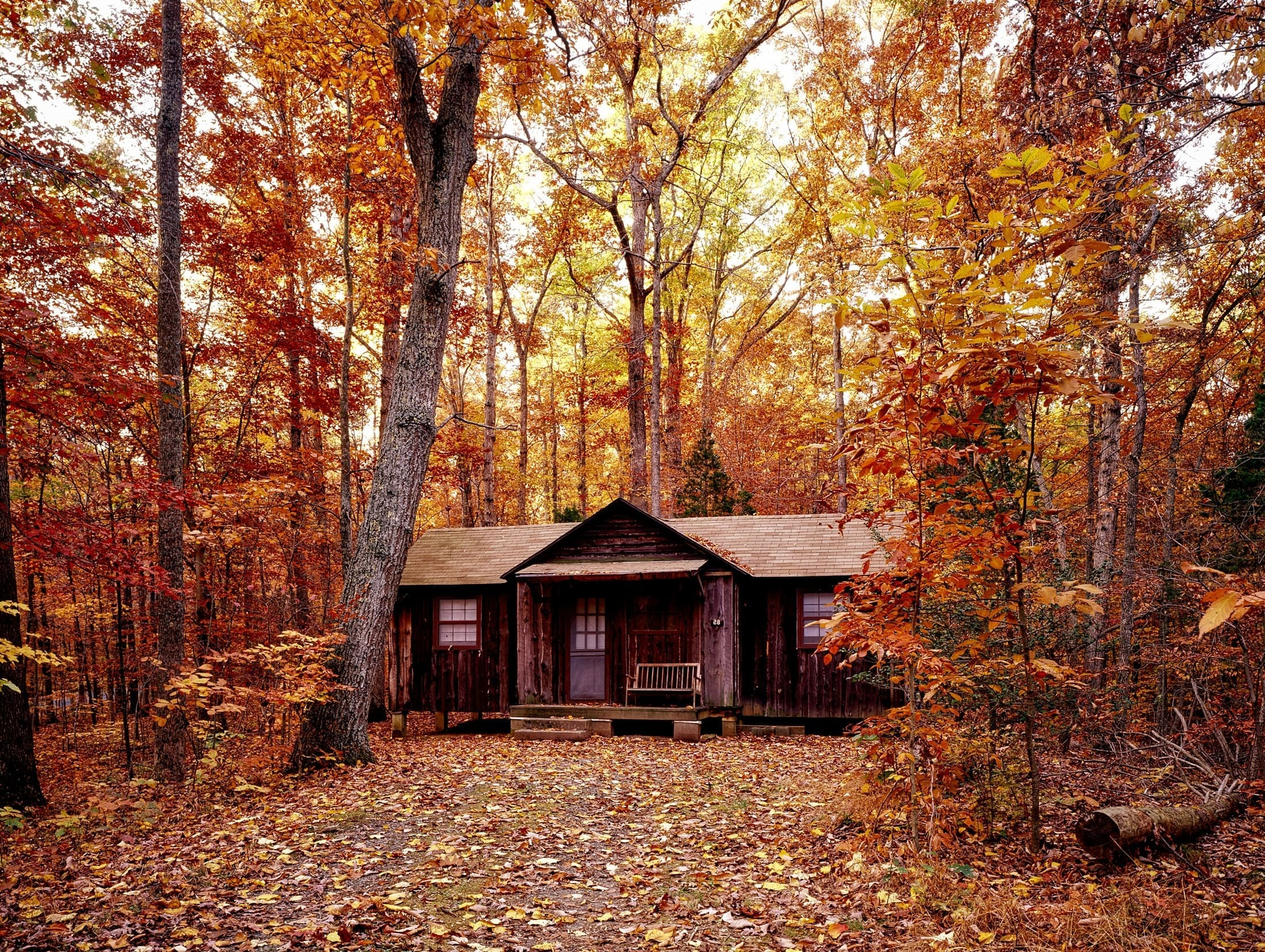
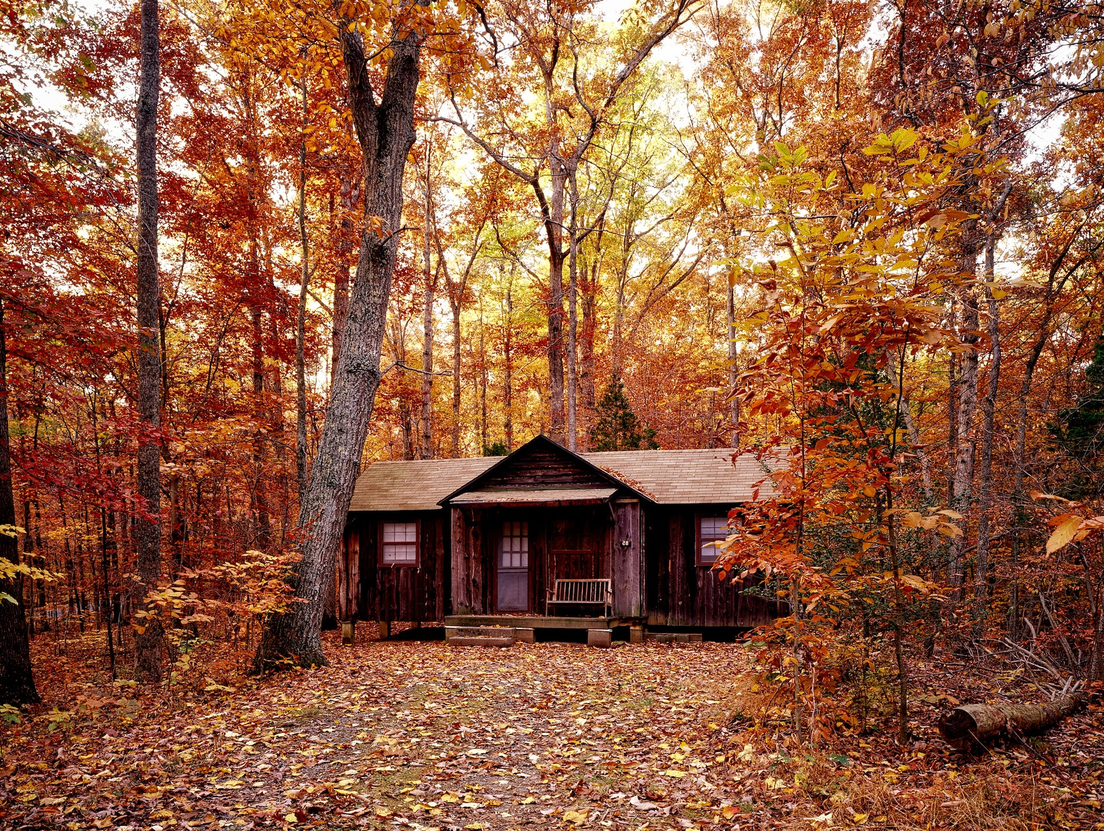
Proyecto Turismo

diff --git a/docs/index.html b/docs/index.html
@@ -1,1 +1,1 @@
-<!doctype html><html lang="es"><head><meta charset="UTF-8"><meta http-equiv="X-UA-Compatible" content="IE=edge"><meta name="viewport" content="width=device-width,initial-scale=1"><link href="https://fonts.googleapis.com/css2?family=Kanit:ital@1&family=Lora:ital@1&display=swap" rel="stylesheet"><script src="https://kit.fontawesome.com/88684a7619.js" crossorigin="anonymous"></script><title>Document</title><script defer="defer" src="main.e689837c3e764ff46ad0.js"></script><link href="estilo.659c984c1b8cc0631ca3.css" rel="stylesheet"></head><body><div class="contenedor-global"><div class="contenedor-logo"><div class="logo-imagen"><img class="logo logo-responsive" src="assets/imagenes/logo-sinfondo.png" alt=""></div><div class="menu"><i class="fa-solid fa-bars" id="btn-menu"></i><nav class="nav"><p class="menu-item"><a class="menu-a" href="#nosotros">Nosotros</a></p><p class="menu-item"><a class="menu-a" href="#instalaciones">Instalaciones</a></p><p class="menu-item"><a class="menu-a" href="#alojamiento">Alojamiento</a></p><p class="menu-item"><a class="menu-a" href="#mapa">Ubicación</a></p><p class="menu-item"><a class="menu-a" href="#contact">Contacto</a></p></nav></div></div><div class="contenedor-imagen"><div id="contenedor-seccion"><div class="seccion-animada"><img class="imagen-presentacion" src="assets/imagenes/fondoTres.jpg" alt=""></div><div class="seccion-animada"><img class="imagen-presentacion" src="assets/imagenes/fondoDos.jpg" alt=""></div><div class="seccion-animada"><img class="imagen-presentacion" src="assets/imagenes/fotojungla.jpg"></div></div></div><div class="contenedor-bienvenida" id="nosotros"><div class="contenedor-texto"><h1 class="bienvenida-titulo">~ <span class="texto-verde">BIENVENIDOS A</span> LAS YUNGAS JUJEÑAS ~</h1></div><div class="contenedor-grid"><div class="bienvenida-img"><img class="bienvenida-img-particular" src="assets/imagenes/fotodos.jpg" alt=""> <img class="bienvenida-img-particular" src="assets/imagenes/fototres.jpg" alt=""></div><div class="bienvenida-texto"><h2 class="bienvenida-texto-h2">Nuestra historia</h2><p class="bienvenida-texto-p">Nuestra historia Lorem ipsum, dolor sit amet consectetur adipisicing elit. Qui minus vel vero sapiente similique adipisci officiis possimus veniam non ad ratione, unde nesciunt, cupiditate ipsam fugit enim veritatis a soluta. Lorem ipsum dolor sit, amet consectetur adipisicing elit. Reprehenderit praesentium natus officia consequatur ea ad illo quo dolor pariatur eveniet placeat, exercitationem veniam saepe debitis odit laboriosam nesciunt facere eaque? Lorem ipsum dolor sit amet consectetur, adipisicing elit. Eaque vitae quidem accusamus possimus perferendis suscipit aut illum! Dignissimos maxime ipsa iusto quos! Quasi voluptates fuga ratione corporis! Illo, earum perferendis.</p><p class="bienvenida-texto-p">Nuestra historia Lorem ipsum, dolor sit amet consectetur adipisicing elit. Qui minus vel vero sapiente similique adipisci officiis possimus veniam non ad ratione, unde nesciunt, cupiditate ipsam fugit enim veritatis a soluta. Lorem ipsum dolor sit, amet consectetur adipisicing elit. Reprehenderit praesentium natus officia consequatur ea ad illo quo dolor pariatur eveniet placeat, exercitationem veniam saepe debitis odit laboriosam nesciunt facere eaque? Lorem ipsum dolor sit amet consectetur, adipisicing elit.</p></div><div class="bienvenida-img-dos"><img class="bienvenida-img-particular-dosa" src="assets/imagenes/fotouno.jpg" alt=""> <img class="bienvenida-img-particular-dosb" src="assets/imagenes/fotocuatro.jpg" alt=""></div></div></div><div class="contenedor-info" id="instalaciones"><div class="titulo-info"><h2 class="titulo-info-h2">Nuestras <span class="texto-verde">Instalaciones</span></h2><p class="titulo-info-p">Contamos con los servicios necesarios para que disfruten durante su estadia:</p></div><div class="instalaciones-info-grid info-grid-uno efecto-java"><img class="grid-img-iguales" src="assets/servicios/plaza.jpg" alt=""><p>Conectividad Wifi gratis en la Plaza principal del pueblo y la señal de telefonía de la empresa Personal.</p></div><div class="instalaciones-info-grid info-grid-dos efecto-java"><img class="grid-img-iguales" src="assets/servicios/plaza.jpg" alt=""><p>Hospedajes y comedores registrados, habilitados que cuentan con servicios básicos e instalaciones sanitarias cómodas.</p></div><div class="instalaciones-info-grid info-grid-tres efecto-java"><img class="grid-img-iguales" src="assets/servicios/plaza.jpg" alt=""><p>Centro de primeros auxilios y destacamento policial.</p></div><div class="instalaciones-info-grid info-grid-cuatro efecto-java"><img class="grid-img-iguales" src="assets/servicios/plaza.jpg" alt=""><p>En existencia un comercio con provisión de combustible y talleres mecánicos de autos y motos.</p></div><div class="info-camping"><div class="camping-texto"><h2 class="camping-texto-h2">Nuestro <span class="texto-verde">camping municipal</span>.</h2></div><div class="camping-parrafo"><p class="camping-parrafo-p">Si queres pasar tu tiempo en un entorno natural, nuestro camping es el <span class="texto-verde">lugar indicado.</span></p><p class="camping-parrafo-p">Contamos con asadores y <span class="texto-verde">instalaciones cómodas</span> para que disfrutes tu estadia.</p><p class="camping-parrafo-p">Atención:SABADOS/DOMINGOS/FERIADOS de 09 a 19hs.</p><p class="camping-parrafo-p">Costo de ingreso: 150$ p/persona.</p></div><div class="camping-grid"><div class="img-camping-uno scala"><figure><img class="img-igual-grid efecto-java" src="assets/camping/camping05.jpg" alt=""></figure></div><div class="img-camping-dos scala"><figure><img class="img-igual-grid efecto-java" src="assets/camping/camping08.jpg" alt=""></figure></div><div class="img-camping-tres scala"><figure><img class="img-igual-grid-dos efecto-java" src="assets/servicios/camping.jpg" alt=""></figure></div><div class="img-camping-cuatro scala"><figure><img class="img-igual-grid-dos efecto-java" src="assets/camping/camping01.jpg" alt=""></figure></div><div class="img-camping-cinco scala"><figure><img class="img-igual-grid-tres efecto-java" src="assets/camping/camping04.jpg" alt=""></figure></div><div class="img-camping-seis scala"><figure><img class="img-igual-grid-tres efecto-java" src="assets/camping/camping06.jpg" alt=""></figure></div><div class="img-camping-siete scala"><figure><img class="img-igual-grid-tres efecto-java" src="assets/camping/campng03.jpg" alt=""></figure></div></div></div></div><div id="alojamiento" class="contenedor-cabañas"><div class="titulo-info"><h2 class="titulo-info-h2-cabañas">Cabañas</h2><p class="titulo-info-p">Si deseas hospedarte contamos con diferentes tipos de alojamiento.</p></div><div class="cabañas-seccion"><div class="cabañas-cont-uno efecto-tres"><img class="cabañas-img-dist" src="assets/cabañas/cabaña6.jpg" alt=""><div class="cabañas-info-uno"><h2 class="titulo-cabaña">Cabaña ARAI</h2><p class="texto-cabañas">Lorem ipsum dolor, sit amet consectetur adipisicing elit. Ratione quam dolore impedit perspiciatis expedita recusandae dolores quas tempore atque, repellendus molestias, ipsam earum. Recusandae sapiente provident saepe ex, repellat dolorem.</p></div></div><div class="cabañas-cont-dos efecto-tres"><img class="cabañas-img-dist-iguales" src="assets/cabañas/cabaña2.jpg" alt=""><div class="cabañas-info-dos"><h2 class="titulo-cabaña">Cabaña ARAI</h2><p class="texto-cabañas">Lorem ipsum dolor, sit amet consectetur adipisicing elit. Ratione quam dolore impedit perspiciatis expedita recusandae dolores quas tempore atque, repellendus molestias, ipsam earum. Recusandae sapiente provident saepe ex, repellat dolorem.</p></div></div><div class="cabañas-cont-tres efecto-tres"><img class="cabañas-img-dist-iguales" src="assets/cabañas/cabaña3.jpg" alt=""><div class="cabañas-info-tres"><h2 class="titulo-cabaña">Cabaña ARAI</h2><p id="contact" class="texto-cabañas">Lorem ipsum dolor, sit amet consectetur adipisicing elit. Ratione quam dolore impedit perspiciatis expedita recusandae dolores quas tempore atque, repellendus molestias, ipsam earum. Recusandae sapiente provident saepe ex, repellat dolorem.</p></div></div></div></div><div id="boton-arriba"><i class="fa-solid fa-arrow-up"></i></div><div class="ubicacion-contenedor" id="mapa"><h2 class="ubicacion-contenedor-h2 loco">¿Donde estamos?</h2><div class="ubicacion-parrafo"><p>El fuerte se encuentra en el extremo oriental de la provincia de Jujuy, a 1430 m.s.n.m entre la Serranía de Santa Bárbara y el Cerro Centinela. Sobre la RP6 a 38 km de Santa Clara, 40 km de Palma Sola, 65km de San Pedro, 65 km de San Pedro y 120 km de San Salvador de Jujuy.</p></div><div class="ubicacion-flex"><img class="mapa-img" src="assets/imagenes/mapa-yungas.png" alt=""><iframe class="mapa-prop" src="https://www.google.com/maps/embed?pb=!1m18!1m12!1m3!1d7274.870213164948!2d-64.41613542326928!3d-24.261528606082507!2m3!1f0!2f0!3f0!3m2!1i1024!2i768!4f13.1!3m3!1m2!1s0x941a79092a43dfed%3A0x7488cbf462d0a4c1!2sEl%20Fuerte%2C%20Jujuy!5e0!3m2!1ses-419!2sar!4v1661280674037!5m2!1ses-419!2sar"></iframe></div></div><footer class="contenedor-footer"><div class="footer-fila"><div class="img-texto"><img class="img-footer" src="assets/imagenes/logo-sinfondo.png" alt=""><p class="img-texto-footer">Vení a conocer este paraíso en las Yungas Jujeñas 💚</p></div><div class="redes" id="contact"><p class="redes-texto">Seguinos en nuestras redes o comunicate con nosotros para estar informado de las ultimas novedades.</p><div class="iconos"><a class="iconos-a" target="_blank" href="https://www.facebook.com/turis.elfuerte"><i class="fab fa-facebook iconos-i"></i></a> <a class="iconos-a" target="_blank" href="https://www.instagram.com/ecoturelfuerte/"><i class="fab fa-instagram iconos-i"></i></a> <a class="iconos-a" target="_blank" href=""><i class="fab fa-whatsapp iconos-i"></i></a> <a class="iconos-a" target="_blank" href=""><i class="fas fa-envelope iconos-i"></i></a></div></div></div><div class="linea"></div><div class="copy-footer"><p class="copy-texto"><i class="fas fa-copyright copy-icono"></i>Elfuerte.com 2022</p></div></footer></div></body></html>
+<!doctype html><html lang="es"><head><meta charset="UTF-8"><meta http-equiv="X-UA-Compatible" content="IE=edge"><meta name="viewport" content="width=device-width,initial-scale=1"><link href="https://fonts.googleapis.com/css2?family=Kanit:ital@1&family=Lora:ital@1&display=swap" rel="stylesheet"><script src="https://kit.fontawesome.com/88684a7619.js" crossorigin="anonymous"></script><title>Document</title><script defer="defer" src="main.e689837c3e764ff46ad0.js"></script><link href="estilo.825ded4daf479a329f2d.css" rel="stylesheet"></head><body><div class="contenedor-global"><div class="contenedor-logo"><div class="logo-imagen"><img class="logo logo-responsive" src="assets/imagenes/logo-sinfondo.png" alt=""></div><div class="menu"><i class="fa-solid fa-bars" id="btn-menu"></i><nav class="nav"><p class="menu-item"><a class="menu-a" href="#nosotros">Nosotros</a></p><p class="menu-item"><a class="menu-a" href="#instalaciones">Instalaciones</a></p><p class="menu-item"><a class="menu-a" href="#alojamiento">Alojamiento</a></p><p class="menu-item"><a class="menu-a" href="#mapa">Ubicación</a></p><p class="menu-item"><a class="menu-a" href="#contact">Contacto</a></p></nav></div></div><div class="contenedor-imagen"><div id="contenedor-seccion"><div class="seccion-animada"><img class="imagen-presentacion" src="assets/imagenes/fotojungla.jpg" alt=""></div><div class="seccion-animada"><img class="imagen-presentacion" src="assets/imagenes/fotojunglados.jpg" alt=""></div><div class="seccion-animada"><img class="imagen-presentacion" src="assets/imagenes/fotojunglatres.jpg"></div></div></div><div class="contenedor-bienvenida" id="nosotros"><div class="contenedor-texto"><h1 class="bienvenida-titulo">~ <span class="texto-verde">BIENVENIDOS A</span> LAS YUNGAS JUJEÑAS ~</h1></div><div class="contenedor-grid"><div class="bienvenida-img"><img class="bienvenida-img-particular" src="assets/imagenes/fotodos.jpg" alt=""> <img class="bienvenida-img-particular" src="assets/imagenes/fototres.jpg" alt=""></div><div class="bienvenida-texto"><h2 class="bienvenida-texto-h2">Nuestra historia</h2><p class="bienvenida-texto-p">Nuestra historia Lorem ipsum, dolor sit amet consectetur adipisicing elit. Qui minus vel vero sapiente similique adipisci officiis possimus veniam non ad ratione, unde nesciunt, cupiditate ipsam fugit enim veritatis a soluta. Lorem ipsum dolor sit, amet consectetur adipisicing elit. Reprehenderit praesentium natus officia consequatur ea ad illo quo dolor pariatur eveniet placeat, exercitationem veniam saepe debitis odit laboriosam nesciunt facere eaque? Lorem ipsum dolor sit amet consectetur, adipisicing elit. Eaque vitae quidem accusamus possimus perferendis suscipit aut illum! Dignissimos maxime ipsa iusto quos! Quasi voluptates fuga ratione corporis! Illo, earum perferendis.</p><p class="bienvenida-texto-p">Nuestra historia Lorem ipsum, dolor sit amet consectetur adipisicing elit. Qui minus vel vero sapiente similique adipisci officiis possimus veniam non ad ratione, unde nesciunt, cupiditate ipsam fugit enim veritatis a soluta. Lorem ipsum dolor sit, amet consectetur adipisicing elit. Reprehenderit praesentium natus officia consequatur ea ad illo quo dolor pariatur eveniet placeat, exercitationem veniam saepe debitis odit laboriosam nesciunt facere eaque? Lorem ipsum dolor sit amet consectetur, adipisicing elit.</p></div><div class="bienvenida-img-dos"><img class="bienvenida-img-particular-dosa" src="assets/imagenes/fotouno.jpg" alt=""> <img class="bienvenida-img-particular-dosb" src="assets/imagenes/fotocuatro.jpg" alt=""></div></div></div><div class="contenedor-info" id="instalaciones"><div class="titulo-info"><h2 class="titulo-info-h2">Nuestras <span class="texto-verde">Instalaciones</span></h2><p class="titulo-info-p">Contamos con los servicios necesarios para que disfruten durante su estadia:</p></div><div class="instalaciones-info-grid info-grid-uno efecto-java"><img class="grid-img-iguales" src="assets/servicios/plaza.jpg" alt=""><p>Conectividad Wifi gratis en la Plaza principal del pueblo y la señal de telefonía de la empresa Personal.</p></div><div class="instalaciones-info-grid info-grid-dos efecto-java"><img class="grid-img-iguales" src="assets/servicios/plaza.jpg" alt=""><p>Hospedajes y comedores registrados, habilitados que cuentan con servicios básicos e instalaciones sanitarias cómodas.</p></div><div class="instalaciones-info-grid info-grid-tres efecto-java"><img class="grid-img-iguales" src="assets/servicios/plaza.jpg" alt=""><p>Centro de primeros auxilios y destacamento policial.</p></div><div class="instalaciones-info-grid info-grid-cuatro efecto-java"><img class="grid-img-iguales" src="assets/servicios/plaza.jpg" alt=""><p>En existencia un comercio con provisión de combustible y talleres mecánicos de autos y motos.</p></div><div class="info-camping"><div class="camping-texto"><h2 class="camping-texto-h2">Nuestro <span class="texto-verde">camping municipal</span>.</h2></div><div class="camping-parrafo"><p class="camping-parrafo-p">Si queres pasar tu tiempo en un entorno natural, nuestro camping es el <span class="texto-verde">lugar indicado.</span></p><p class="camping-parrafo-p">Contamos con asadores y <span class="texto-verde">instalaciones cómodas</span> para que disfrutes tu estadia.</p><p class="camping-parrafo-p">Atención:SABADOS/DOMINGOS/FERIADOS de 09 a 19hs.</p><p class="camping-parrafo-p">Costo de ingreso: 150$ p/persona.</p></div><div class="camping-grid"><div class="img-camping-uno scala"><figure><img class="img-igual-grid efecto-java" src="assets/camping/camping05.jpg" alt=""></figure></div><div class="img-camping-dos scala"><figure><img class="img-igual-grid efecto-java" src="assets/camping/camping08.jpg" alt=""></figure></div><div class="img-camping-tres scala"><figure><img class="img-igual-grid-dos efecto-java" src="assets/servicios/camping.jpg" alt=""></figure></div><div class="img-camping-cuatro scala"><figure><img class="img-igual-grid-dos efecto-java" src="assets/camping/camping01.jpg" alt=""></figure></div><div class="img-camping-cinco scala"><figure><img class="img-igual-grid-tres efecto-java" src="assets/camping/camping04.jpg" alt=""></figure></div><div class="img-camping-seis scala"><figure><img class="img-igual-grid-tres efecto-java" src="assets/camping/camping06.jpg" alt=""></figure></div><div class="img-camping-siete scala"><figure><img class="img-igual-grid-tres efecto-java" src="assets/camping/campng03.jpg" alt=""></figure></div></div></div></div><div id="alojamiento" class="contenedor-cabañas"><div class="titulo-info"><h2 class="titulo-info-h2-cabañas">Cabañas</h2><p class="titulo-info-p">Si deseas hospedarte contamos con diferentes tipos de alojamiento.</p></div><div class="cabañas-seccion"><div class="cabañas-cont-uno efecto-tres"><img class="cabañas-img-dist" src="assets/cabañas/cabaña6.jpg" alt=""><div class="cabañas-info-uno"><h2 class="titulo-cabaña">Cabaña ARAI</h2><p class="texto-cabañas">Lorem ipsum dolor, sit amet consectetur adipisicing elit. Ratione quam dolore impedit perspiciatis expedita recusandae dolores quas tempore atque, repellendus molestias, ipsam earum. Recusandae sapiente provident saepe ex, repellat dolorem.</p></div></div><div class="cabañas-cont-dos efecto-tres"><img class="cabañas-img-dist-iguales" src="assets/cabañas/cabaña2.jpg" alt=""><div class="cabañas-info-dos"><h2 class="titulo-cabaña">Cabaña ARAI</h2><p class="texto-cabañas">Lorem ipsum dolor, sit amet consectetur adipisicing elit. Ratione quam dolore impedit perspiciatis expedita recusandae dolores quas tempore atque, repellendus molestias, ipsam earum. Recusandae sapiente provident saepe ex, repellat dolorem.</p></div></div><div class="cabañas-cont-tres efecto-tres"><img class="cabañas-img-dist-iguales" src="assets/cabañas/cabaña3.jpg" alt=""><div class="cabañas-info-tres"><h2 class="titulo-cabaña">Cabaña ARAI</h2><p id="contact" class="texto-cabañas">Lorem ipsum dolor, sit amet consectetur adipisicing elit. Ratione quam dolore impedit perspiciatis expedita recusandae dolores quas tempore atque, repellendus molestias, ipsam earum. Recusandae sapiente provident saepe ex, repellat dolorem.</p></div></div></div></div><div id="boton-arriba"><i class="fa-solid fa-arrow-up"></i></div><div class="ubicacion-contenedor" id="mapa"><h2 class="ubicacion-contenedor-h2 loco">¿Donde estamos?</h2><div class="ubicacion-parrafo"><p>El fuerte se encuentra en el extremo oriental de la provincia de Jujuy, a 1430 m.s.n.m entre la Serranía de Santa Bárbara y el Cerro Centinela. Sobre la RP6 a 38 km de Santa Clara, 40 km de Palma Sola, 65km de San Pedro, 65 km de San Pedro y 120 km de San Salvador de Jujuy.</p></div><div class="ubicacion-flex"><img class="mapa-img" src="assets/imagenes/mapa-yungas.png" alt=""><iframe class="mapa-prop" src="https://www.google.com/maps/embed?pb=!1m18!1m12!1m3!1d7274.870213164948!2d-64.41613542326928!3d-24.261528606082507!2m3!1f0!2f0!3f0!3m2!1i1024!2i768!4f13.1!3m3!1m2!1s0x941a79092a43dfed%3A0x7488cbf462d0a4c1!2sEl%20Fuerte%2C%20Jujuy!5e0!3m2!1ses-419!2sar!4v1661280674037!5m2!1ses-419!2sar"></iframe></div></div><footer class="contenedor-footer"><div class="footer-fila"><div class="img-texto"><img class="img-footer" src="assets/imagenes/logo-sinfondo.png" alt=""><p class="img-texto-footer">Vení a conocer este paraíso en las Yungas Jujeñas 💚</p></div><div class="redes" id="contact"><p class="redes-texto">Seguinos en nuestras redes o comunicate con nosotros para estar informado de las ultimas novedades.</p><div class="iconos"><a class="iconos-a" target="_blank" href="https://www.facebook.com/turis.elfuerte"><i class="fab fa-facebook iconos-i"></i></a> <a class="iconos-a" target="_blank" href="https://www.instagram.com/ecoturelfuerte/"><i class="fab fa-instagram iconos-i"></i></a> <a class="iconos-a" target="_blank" href=""><i class="fab fa-whatsapp iconos-i"></i></a> <a class="iconos-a" target="_blank" href=""><i class="fas fa-envelope iconos-i"></i></a></div></div></div><div class="linea"></div><div class="copy-footer"><p class="copy-texto"><i class="fas fa-copyright copy-icono"></i>Elfuerte.com 2022</p></div></footer></div></body></html>

diff --git a/docs/estilo.825ded4daf479a329f2d.css b/docs/estilo.825ded4daf479a329f2d.css
@@ -1,0 +1,1 @@
+body{font-family:Lora,serif;font-size:20px}.contenedor-global{display:grid;grid-template-areas:"logo  logo" "imgone imgone" "bienvenida bienvenida" "instalaciones instalaciones" "servicios servicios" "ubicacion ubicacion" "cabañas cabañas" "footer footer ";grid-template-columns:repeat(2,1fr);grid-template-rows:repeat(8,auto)}.contenedor-logo{background:linear-gradient(270deg,#5a3f37,#bfe2ca);display:flex;font-family:Kanit,sans-serif;grid-area:logo}.logo-imagen{width:20%}.logo{height:6em}.menu{align-items:center;display:flex;justify-content:right;width:80%}.menu-a{color:#000;font-size:.9em;padding:0 2em;text-decoration:none;transition:color 2s}.menu-a:hover{color:#21e64c}.nav{display:flex}#btn-menu{display:none}.contenedor-imagen{grid-area:imgone;overflow:hidden}#contenedor-seccion{display:flex;height:30em;width:300%}.seccion-animada{width:100%}.imagen-presentacion{height:100%;object-fit:cover;width:100%}.contenedor-bienvenida{background-color:#656e63;grid-area:bienvenida;padding:1em 0}.contenedor-texto{color:#fff;margin:1em 0;text-align:center}.bienvenida-titulo{font-size:1.5em}.bienvenida-texto{align-items:center;color:#fff;display:flex;flex-direction:column;font-size:1em;grid-column:2/3;justify-content:center;line-height:1.3em;text-align:center}.texto-verde{color:#0aa92d}.contenedor-grid{display:grid;gap:1em;grid-template-columns:repeat(3,1fr,2fr,1fr);margin:0 1em}.bienvenida-img{grid-column:1/2;width:100%}.bienvenida-texto-h2{margin-bottom:1.5em}.bienvenida-texto-p{padding:1em 0}.bienvenida-img-dos{grid-column:3/4;width:100%}.bienvenida-img-particular,.bienvenida-img-particular-dosa,.bienvenida-img-particular-dosb{height:20em;width:100%}.contenedor-info{background-color:#656e63;background-size:cover;border-bottom:1px solid #fff;color:#fff;grid-area:instalaciones;padding-bottom:1em}.titulo-info-p{font-size:1em;padding:1em 0}.titulo-info{align-items:center;display:flex;flex-direction:column;font-size:1.5em;font-weight:900;justify-content:center;margin-bottom:1em;position:relative}.instalaciones-info-grid{display:grid;grid-template-columns:repeat(2,1fr);margin:0 1em}.grid-img-iguales{height:20em;object-fit:cover;width:100%}.info-grid-uno img{grid-column:1/2}.info-grid-cinco p,.info-grid-tres p,.info-grid-uno p{grid-column:2/3;justify-content:center;padding:0 1em}.info-grid-cinco p,.info-grid-cuatro p,.info-grid-dos p,.info-grid-tres p,.info-grid-uno p{align-items:center;background-color:#271e5700;display:flex;line-height:1.5em;text-align:center}.info-grid-cuatro p,.info-grid-dos p{grid-column:1/2;grid-row:1/2}.info-grid-cuatro img,.info-grid-dos img{grid-column:2/3}.efecto-java{opacity:0;transition:all 5s}.camping-texto{font-size:1.5em}.camping-parrafo,.camping-texto{margin:1em 0;text-align:center}.camping-parrafo-p{font-weight:900;padding:.5em 0}.camping-grid{display:grid;gap:1em;grid-template-columns:repeat(6,1fr);margin:0 1em}.img-camping-uno{grid-column:1/5}.img-camping-dos{grid-column:5/7}.img-igual-grid{height:20em;object-fit:cover;transition:all 2s;width:100%}.img-camping-tres{grid-column:1/4}.img-igual-grid-dos{height:27.7em;object-fit:cover;transition:all 2s;width:100%}.img-camping-cuatro{grid-column:4/7}.img-camping-cinco{grid-column:1/3}.img-camping-seis{grid-column:3/5}.img-camping-siete{grid-column:5/7}.img-igual-grid-tres{height:21em;object-fit:cover;transition:all 2s;width:100%}figure{overflow:hidden}.scala img:hover{transform:scale(1.2)}.contenedor-cabañas{background-image:url(0405671e52a6d0e292f5.jpg);background-size:cover;border-bottom:1px solid #fff;color:#fff;grid-area:cabañas;padding:1.5em 0}.cabañas-seccion{column-gap:1em;display:grid;grid-template-columns:repeat(4,1fr);margin:0 1em;row-gap:1em}.cabañas-cont-uno{display:grid;grid-column:1/5;grid-template-columns:2fr 1fr}.cabañas-img-dist{height:20em;object-fit:cover;width:100%}.cabañas-info-uno{justify-content:center;min-width:20em}.cabañas-info-dos,.cabañas-info-tres,.cabañas-info-uno{display:flex;flex-direction:column;padding:0 1em}.cabañas-cont-dos{grid-column:1/3}.cabañas-cont-tres{grid-column:3/5}.cabañas-img-dist-iguales{height:25em;object-fit:cover;width:100%}.titulo-cabaña{color:#0aa92d;font-size:1.2em;padding-top:.2em;text-align:center}.texto-cabañas{font-size:.8em;padding:1em 0;text-align:center}.ubicacion-contenedor{background-color:#656e63;grid-area:ubicacion}.ubicacion-contenedor-h2{color:#fff;font-size:1.75em;margin:1em 0;text-align:center}.ubicacion-parrafo{color:#fff;display:flex;flex-direction:column;grid-column:1/2;justify-content:center;padding:0 1em;text-align:center}.ubicacion-flex{display:flex;flex-direction:row;gap:1em;height:25em;margin:1em}.mapa-prop{border:none;width:100%}.contenedor-footer{background:linear-gradient(270deg,#5a3f37,#bfe2ca);grid-area:footer}.footer-fila{display:flex;margin:1em 0}.img-texto{align-items:center;color:#050505;display:flex;padding:.5em;width:50%}.img-footer{border-radius:50%;width:5em}.img-texto-footer{font-size:.8em;padding:0 1em}.redes{align-items:center;display:flex;flex-direction:column;justify-content:center;text-align:center;width:50%}.redes-texto{color:#000;font-size:.8em;padding:.5em}.iconos,.iconos-a{display:flex}.iconos-a{align-items:center;color:#000;font-size:1.2em;height:2.5em;justify-content:center;margin:0 .5em;text-decoration:none;width:2.5em}.iconos-i{border-radius:50%;padding:.5em;transition:all 1s}.iconos-i:hover{background-color:#fff;color:#000}.copy-footer{align-items:center;color:#000;display:flex;justify-content:center;margin:1em 0}.copy-texto{font-size:.7em}.copy-icono{padding:0 .2em}.linea{background-color:#000;height:1px;margin:auto;width:70%}#boton-arriba{align-items:center;background-color:#162213;border:4px solid transparent;border-radius:50%;bottom:2.5em;color:#fff;cursor:pointer;display:flex;font-size:1em;height:3em;justify-content:center;position:fixed;right:2.5em;transform:scale(0);transition:all .3s ease;width:3em}#boton-arriba:hover{border-color:rgba(0,0,0,.1);transform:scale(1.1)}@media screen and (max-width:480px){.contenedor-logo{position:fixed;width:100%;z-index:999}.logo-imagen{width:70%}.logo-responsive{display:none;height:5.5em}#btn-menu{color:#000;cursor:pointer;display:block;font-size:1.5em;padding:.2em 0;text-align:center;transition:all .3s;width:30%}#btn-menu:hover{color:#fff}.nav{flex-direction:column;justify-content:center;left:-100%;position:fixed;top:2em;transition:all .3s;width:100%}.nav.active{left:0}.menu-item{background:linear-gradient(270deg,#5a3f37,#bfe2ca);border-bottom:1px solid #fff;padding:1em 0;text-align:center;transition:all .3s;width:100%}.menu-item:hover{background:linear-gradient(90deg,#00467f,#a5cc82)}.menu-a{color:#000;display:inline-block;transition:all .3s}.menu-a:hover{color:#fff}.contenedor-imagen{grid-area:imgone;height:20em;overflow:hidden}.bienvenida-titulo{font-size:1.2em;margin-top:1em}.bienvenida-texto{align-items:center;color:#fff;display:flex;flex-direction:column;font-size:.8em;justify-content:center;line-height:1.2em;order:2;text-align:center}.contenedor-grid{margin:0}.bienvenida-img,.contenedor-grid{display:flex;flex-direction:column}.bienvenida-img{order:3}.bienvenida-img-dos{display:flex;flex-direction:column;order:1;width:100%}.bienvenida-texto-h2{margin:.5em 0}.bienvenida-texto-p{padding:1em}.bienvenida-img-particular,.bienvenida-img-particular-dosa,.bienvenida-img-particular-dosb{height:17.5em;padding:.5em 0}.titulo-info-h2{font-size:1.5em;margin-top:2em}.titulo-info-p{font-size:1em;padding:1em}.titulo-info{font-size:.8em;text-align:center}.instalaciones-info-grid{display:flex;flex-direction:column;grid-template-columns:none;margin:0;max-width:none}.grid-img-iguales{height:17.5em;object-fit:cover;width:100%}.info-grid-cinco p,.info-grid-cuatro p,.info-grid-dos p,.info-grid-tres p,.info-grid-uno p{font-size:.8em;margin:1em 0}.camping-texto{margin:1em 0;text-align:center}.camping-texto-h2{font-size:1em;margin-top:1em}.camping-parrafo{display:flex;flex-direction:column;font-size:.6em;margin:1em .5em;text-align:left}.camping-parrafo-p{font-weight:900;padding:.5em 0}.camping-grid{gap:.5em;margin:0}.cabañas-seccion,.camping-grid{display:flex;flex-direction:column;max-width:none}.cabañas-seccion{column-gap:1em;grid-template-columns:repeat(4,1fr);margin:0 1em;row-gap:1em}.titulo-info-h2-cabañas{font-size:2em;margin-top:1em}.cabañas-cont-uno{display:flex;flex-direction:column;grid-column:1/5}.cabañas-img-dist{height:15em;object-fit:cover;width:100%}.cabañas-info-uno{min-width:0}.cabañas-img-dist-iguales{height:15em;object-fit:cover;width:100%}.ubicacion-contenedor-h2{color:#fff;font-size:1.4em;margin-top:2em;text-align:center}.ubicacion-parrafo{color:#fff;display:flex;flex-direction:column;font-size:.8em;justify-content:center;padding:0 1em;text-align:left}.ubicacion-flex{display:flex;flex-direction:column;height:inherit;margin:1em 0;max-width:none}.mapa-img{height:20em;margin:auto;width:100%}.mapa-prop{height:17em;width:100%}.footer-fila{margin:0}.footer-fila,.img-texto{display:flex;flex-direction:column}.img-texto{align-items:center;color:#050505;padding:0;text-align:center;width:100%}.img-footer{border-radius:50%;width:5em}.img-texto-footer{font-size:.8em;padding:0 1em}.redes{align-items:center;display:flex;justify-content:center;text-align:center;width:100%}.iconos-a{margin:0 .2em}.copy-footer{color:#000;margin:.5em 0}.copy-texto{font-size:.8em}.copy-icono{padding:0}#boton-arriba{background-color:#162213;bottom:20px;height:2em;right:20px;width:2em}}@media screen and (min-width:480px) and (max-width:800px){.contenedor-logo{position:fixed;width:100%;z-index:999}.logo-imagen{width:70%}.logo-responsive{display:none;height:5.5em}#btn-menu{color:#000;cursor:pointer;display:block;font-size:1.5em;padding:.2em 0;text-align:center;transition:all .3s;width:30%}#btn-menu:hover{color:#fff}.nav{flex-direction:column;justify-content:center;left:-100%;position:fixed;top:2em;transition:all .3s;width:100%}.nav.active{left:0}.menu-item{background:linear-gradient(270deg,#5a3f37,#bfe2ca);border-bottom:1px solid #fff;padding:1em 0;text-align:center;transition:all .3s;width:100%}.menu-item:hover{background:linear-gradient(90deg,#00467f,#a5cc82)}.menu-a{color:#000;display:inline-block;transition:all .3s}.menu-a:hover{color:#fff}.contenedor-imagen{grid-area:imgone;height:25em;overflow:hidden}.bienvenida-titulo{font-size:1.5em;margin-top:1em}.bienvenida-texto{align-items:center;color:#fff;font-size:1em;justify-content:center;line-height:1.2em;order:2;text-align:left}.bienvenida-img,.bienvenida-texto,.contenedor-grid{display:flex;flex-direction:column}.bienvenida-img{order:3}.bienvenida-texto-h2{margin:1em 0}.bienvenida-texto-p{padding:1em}.bienvenida-img-dos{display:flex;flex-direction:column;order:1}.bienvenida-img-particular{height:15em;object-fit:cover;padding:.5em;width:100%}.bienvenida-img-particular-dosa,.bienvenida-img-particular-dosb{height:17,5em;object-fit:cover;padding:.5em}.bienvenida-img-particular-dosa,.bienvenida-img-particular-dosb{width:100%}.titulo-info-h2{font-size:2em;margin-top:1em}.titulo-info-p{font-size:1em;padding:20px 0}.titulo-info{font-size:1em;text-align:center}.instalaciones-info-grid{display:grid;grid-template-columns:repeat(2,1fr);margin:0 1em;max-width:none}.grid-img-iguales{height:17.5em;object-fit:cover;width:100%}.info-grid-cinco p,.info-grid-tres p,.info-grid-uno p{column-gap:1em}.camping-texto{margin:1em 0;text-align:center}.camping-texto-h2{font-size:1.2em;margin-top:1em}.camping-parrafo{font-size:.9em;margin:1em 0;text-align:center}.camping-parrafo-p{font-weight:900;padding:.5em 0}.camping-grid{display:grid;grid-template-columns:repeat(6,1fr);margin:0 1em;max-width:none}.img-camping-uno{grid-column:1/7}.img-camping-dos{grid-column:1/4}.img-igual-grid{height:20em;object-fit:cover;transition:all 2s;width:100%}.img-camping-tres{grid-column:4/7}.img-igual-grid-dos{height:20em;object-fit:cover;transition:all 2s;width:100%}.img-camping-cuatro{grid-column:1/7}.img-camping-cinco{grid-column:1/4}.img-camping-seis{grid-column:4/7}.img-camping-siete{grid-column:1/7}.img-igual-grid-tres{height:20em;object-fit:cover;transition:all 2s;width:100%}.cabañas-seccion{column-gap:1em;display:grid;grid-template-columns:repeat(4,1fr);margin:0 1em;max-width:none;row-gap:1em}.titulo-info-h2-cabañas{font-size:2em;margin-top:1em}.cabañas-cont-uno{display:grid;grid-column:1/5;grid-template-columns:1fr 1fr}.cabañas-img-dist{height:15em;object-fit:cover;width:100%}.cabañas-info-uno{min-width:0}.cabañas-img-dist-iguales{height:15em;object-fit:cover;width:100%}.ubicacion-contenedor-h2{color:#fff;font-size:2em;margin:1em 0;text-align:center}.ubicacion-parrafo{color:#fff;display:flex;flex-direction:column;font-size:.9em;justify-content:center;padding:0 1em;text-align:center}.ubicacion-flex{display:flex;flex-direction:column;height:inherit;margin:1em auto;max-width:none}.mapa-img{height:27.5em}.mapa-img,.mapa-prop{margin:auto;width:90%}.mapa-prop{border:none;height:20em}.footer-fila{margin:0}.footer-fila,.img-texto{display:flex;flex-direction:column}.img-texto{align-items:center;color:#050505;padding:0;width:100%}.img-footer{border-radius:50%;width:5em}.img-texto-footer{font-size:.8em;padding:0 1em}.redes{align-items:center;display:flex;justify-content:center;text-align:center;width:100%}.iconos-a{margin:0 .8em}.copy-footer{color:#000;margin:1em 0}.copy-texto{font-size:.8em}.copy-icono{padding:0}.linea{width:80%}#boton-arriba{background-color:#162213;bottom:20px;height:2.5em;right:20px;width:2.5em}}@media screen and (min-width:800px) and (max-width:1150px){.menu-a{color:#000;font-size:.9em;padding:0 1em;text-decoration:none;transition:color 2s}.contenedor-bienvenida{background-color:#656e63;grid-area:bienvenida;padding:1em 0}.contenedor-texto{color:#fff;margin:1em 0;text-align:center}.bienvenida-titulo{font-size:1.5em}.bienvenida-texto{align-items:center;color:#fff;display:flex;flex-direction:column;font-size:1em;grid-column:1/4;justify-content:center;line-height:1.3em;order:2;text-align:center}.contenedor-grid{display:grid;gap:0;grid-template-columns:repeat(3,1fr);margin:0 1em}.bienvenida-img{display:flex;flex-direction:column;grid-column:1/4;order:3;width:100%}.bienvenida-texto-h2{margin-bottom:0}.bienvenida-texto-p{padding:1em 0}.bienvenida-img-dos{display:flex;flex-direction:column;grid-column:1/4;order:1;width:100%}.bienvenida-img-particular,.bienvenida-img-particular-dosa,.bienvenida-img-particular-dosb{height:20em;margin:auto;padding:.5em 0;width:40em}}@media screen and (min-width:1800px){body{background-color:#656e63}.contenedor-global{padding:0 8em}}

diff --git a/src/index.html b/src/index.html
@@ -30,13 +30,13 @@
            <div class="contenedor-imagen">
                 <div id="contenedor-seccion">
                     <div class="seccion-animada">
-                          <img class="imagen-presentacion" src="assets/imagenes/fondoTres.jpg" alt="">
+                          <img class="imagen-presentacion" src="assets/imagenes/fotojungla.jpg" alt="">
                     </div>
                     <div class="seccion-animada">
-                         <img class="imagen-presentacion" src="assets/imagenes/fondoDos.jpg" alt="">
+                         <img class="imagen-presentacion" src="assets/imagenes/fotojunglados.jpg" alt="">
                     </div>
                     <div class="seccion-animada">
-                       <img class="imagen-presentacion" src="assets/imagenes/fotojungla.jpg"">
+                       <img class="imagen-presentacion" src="assets/imagenes/fotojunglatres.jpg"">
                     </div> 
                 </div>
            </div>
